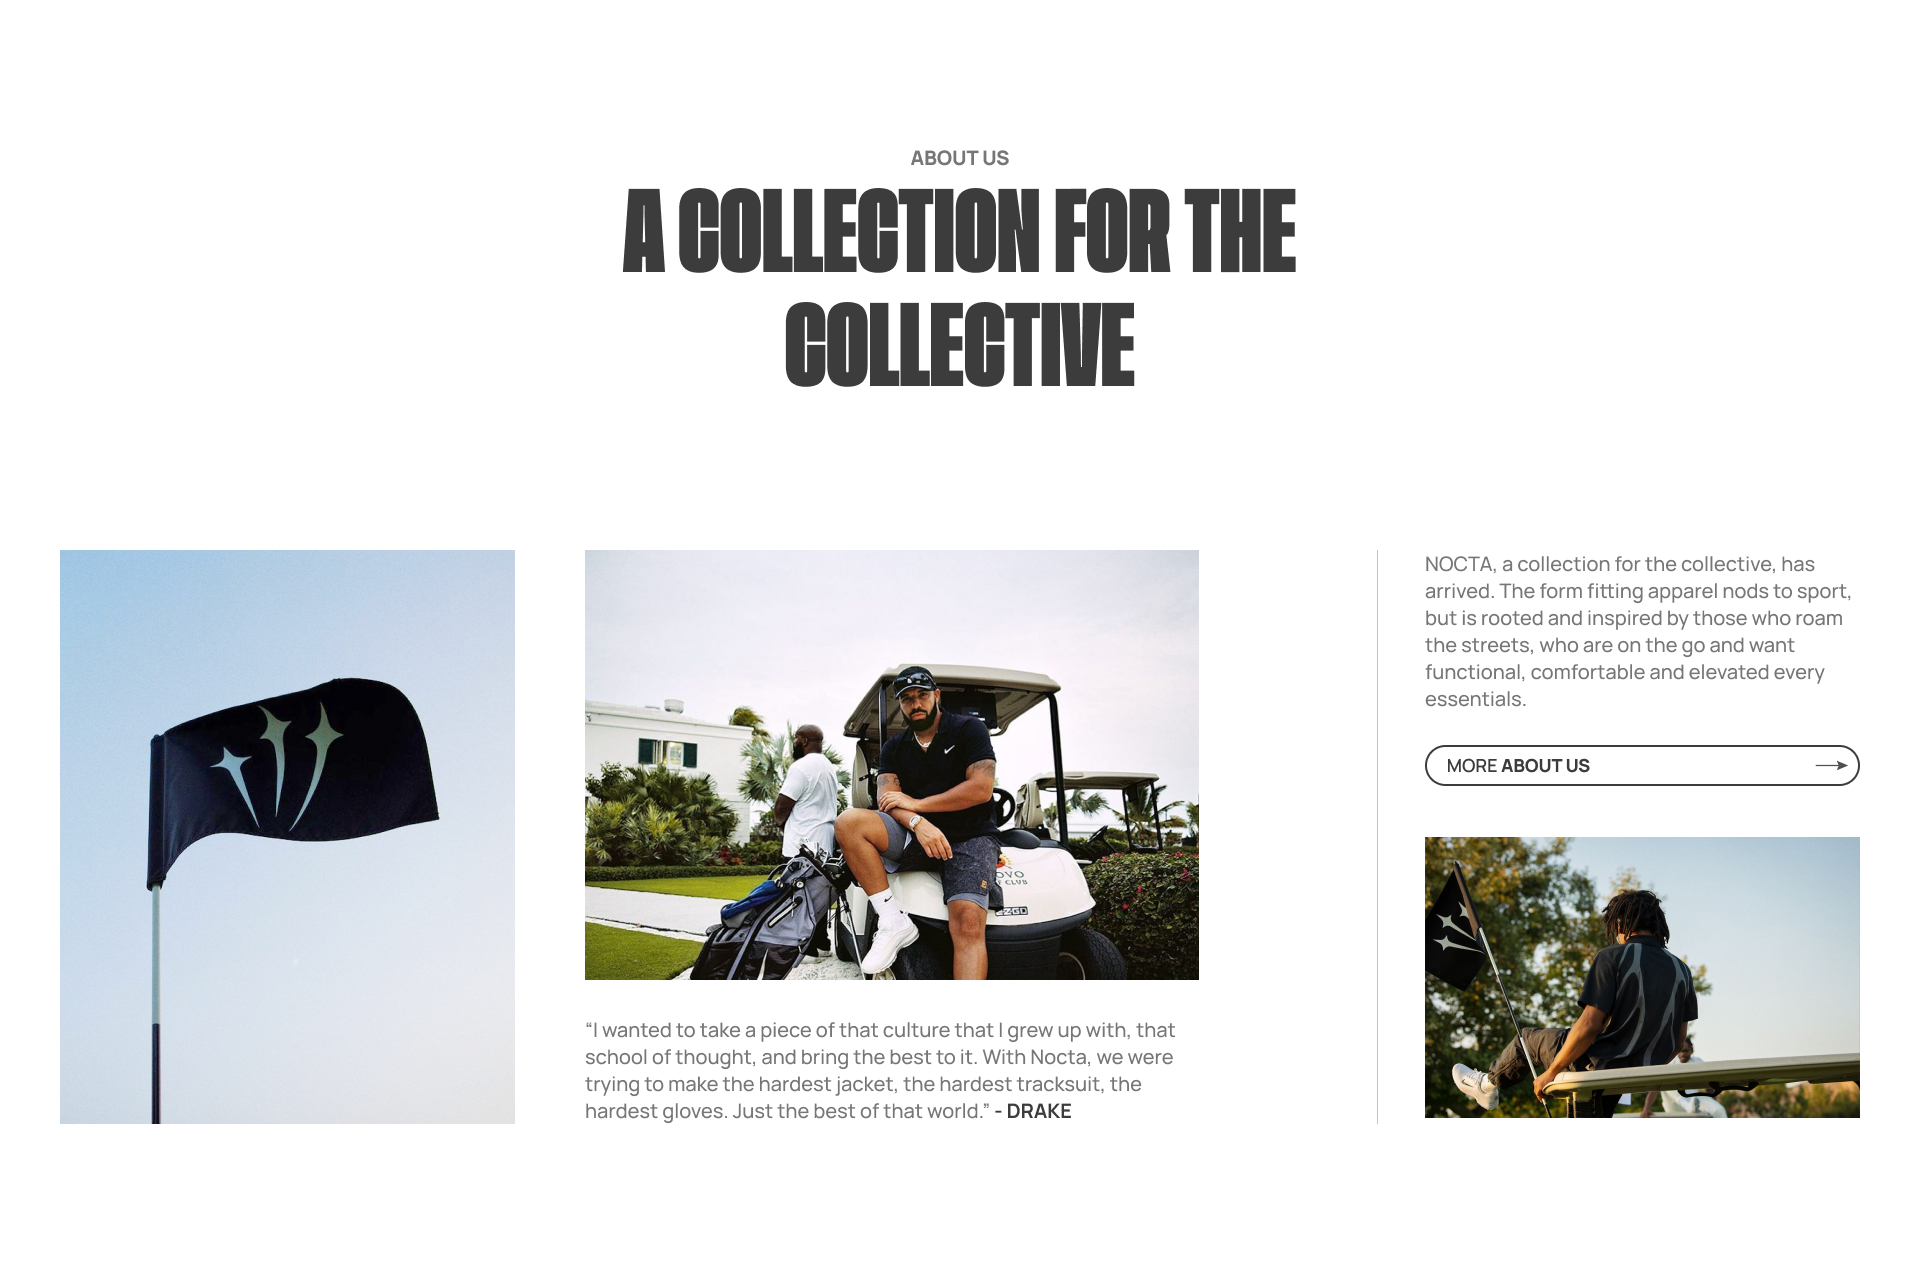
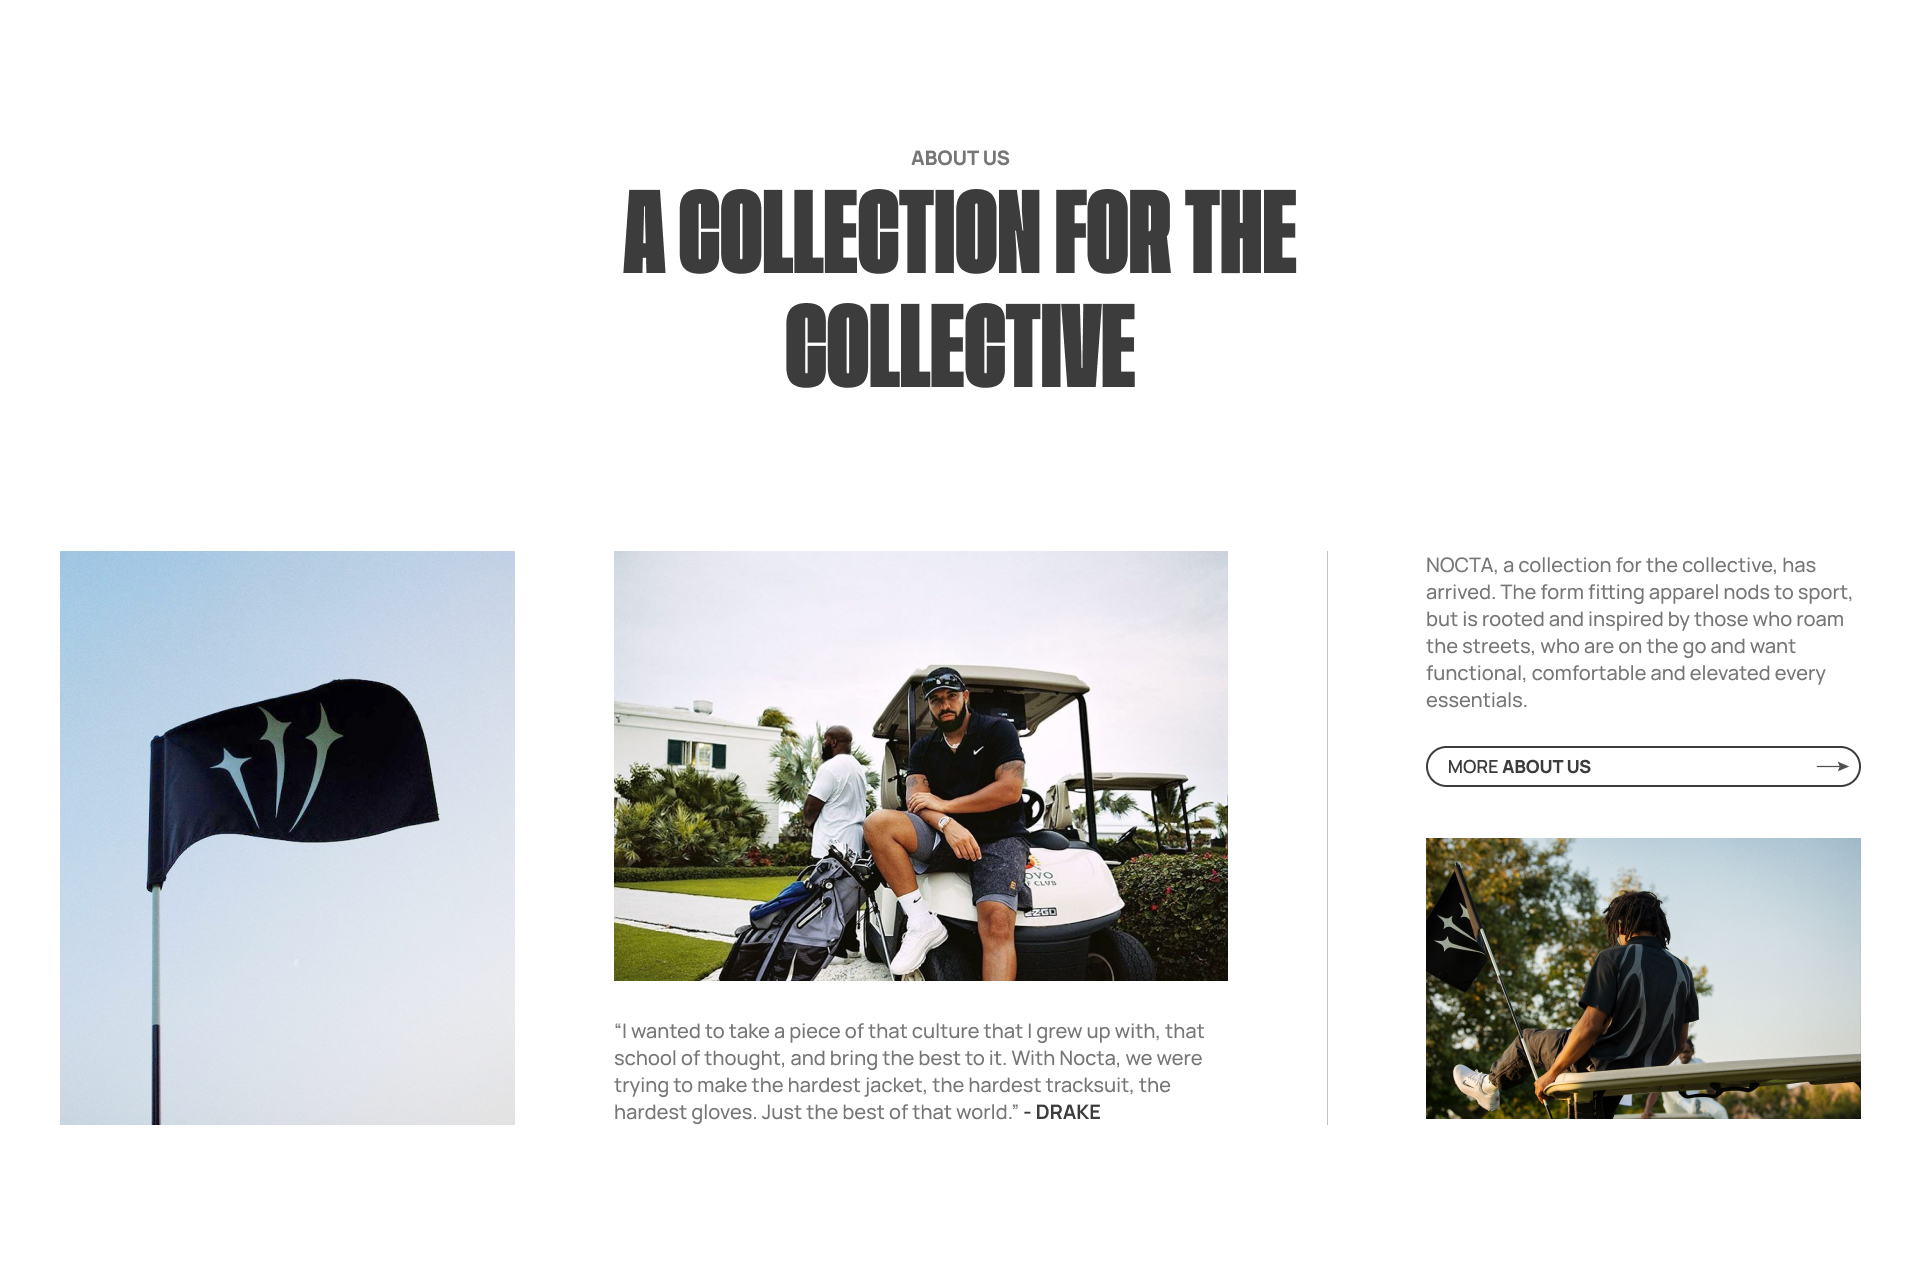
added responsive to about section

diff --git a/components/Landing/About.js b/components/Landing/About.js
@@ -29,65 +29,81 @@ function About() {
 
           <div className="div2">
             <Image
-              src={aboutImage2}
-              alt="About image 2"
+              src={aboutImage1}
+              alt="About image 1"
               width={500}
               height={500}
-              priority
+              className="div2__left"
             />
-            <p>
-              “I wanted to take a piece of that culture that I grew up with,
-              that school of thought, and bring the best to it. With Nocta, we
-              were trying to make the hardest jacket, the hardest tracksuit, the
-              hardest gloves. Just the best of that world.” <span>- DRAKE</span>
-            </p>
-          </div>
 
+            <div className="div2__right">
+              <Image
+                src={aboutImage2}
+                alt="About image 2"
+                width={500}
+                height={500}
+              />
+              <p className="div2__text paragraph">
+                “I wanted to take a piece of that culture that I grew up with,
+                that school of thought, and bring the best to it. With Nocta, we
+                were trying to make the hardest jacket, the hardest tracksuit,
+                the hardest gloves. Just the best of that world.” - DRAKE
+              </p>
+            </div>
+          </div>
+          <p className="div5 paragraph">
+            “I wanted to take a piece of that culture that I grew up with, that
+            school of thought, and bring the best to it. With Nocta, we were
+            trying to make the hardest jacket, the hardest tracksuit, the
+            hardest gloves. Just the best of that world.” - DRAKE
+          </p>
           <div className="div3">
+            <div className="div3__bar" />
+          </div>
+          <div className="div4">
             <div>
-              <p className="div3__description">
+              <p className="div4__description paragraph">
                 NOCTA, a collection for the collective, has arrived. The form
                 fitting apparel nods to sport, but is rooted and inspired by
                 those who roam the streets, who are on the go and want
                 functional, comfortable and elevated every essentials.
               </p>
-              <Link href="/" className="div3__content">
-                  <p>
-                    More <span>about us</span>
-                  </p>
-                  <svg
-                    width="34"
-                    height="11"
-                    viewBox="0 0 34 11"
-                    fill="none"
-                    xmlns="http://www.w3.org/2000/svg"
-                  >
-                    <g id="Group 88">
-                      <path
-                        id="Vector"
-                        d="M23.7757 5.49973L21.707 10.3696L33.2508 5.49973L21.707 0.630592L23.7757 5.49973Z"
-                        fill="#505050"
-                      />
-                      <path
-                        id="Vector_2"
-                        d="M0.75 5.5L28.7899 5.5"
-                        stroke="#505050"
-                        strokeWidth="1.20972"
-                        strokeMiterlimit="10"
-                      />
-                    </g>
-                  </svg>
+              <Link href="/" className="div4__content">
+                <p>
+                  More <span>about us</span>
+                </p>
+                <svg
+                  width="34"
+                  height="11"
+                  viewBox="0 0 34 11"
+                  fill="none"
+                  xmlns="http://www.w3.org/2000/svg"
+                >
+                  <g id="Group 88">
+                    <path
+                      id="Vector"
+                      d="M23.7757 5.49973L21.707 10.3696L33.2508 5.49973L21.707 0.630592L23.7757 5.49973Z"
+                      fill="#505050"
+                    />
+                    <path
+                      id="Vector_2"
+                      d="M0.75 5.5L28.7899 5.5"
+                      stroke="#505050"
+                      strokeWidth="1.20972"
+                      strokeMiterlimit="10"
+                    />
+                  </g>
+                </svg>
               </Link>
             </div>
             <Image
               src={aboutImage3}
               alt="About image 3"
-              width={500}
-              height={500}
+              width={700}
+              height={700}
               priority
             />
           </div>
-          <div className="div4" />
         </div>
       </div>
     </section>

diff --git a/sass/04-components/landing/_about.scss b/sass/04-components/landing/_about.scss
@@ -46,11 +46,16 @@
     }
   }
   &__content {
-    display: grid;
-    grid-template-columns: repeat(6, 1fr) 0.1fr repeat(3, 1fr);
-    grid-template-rows: repeat(5, 1fr);
-    column-gap: 3vw;
-    max-height: 700px;
+    display: flex;
+    flex-direction: column;
+    row-gap: 24px;
+    @media screen and (min-width: 992px) {
+      display: grid;
+      grid-template-columns: repeat(6, 1fr) 0.1fr repeat(3, 1fr);
+      grid-template-rows: repeat(5, 1fr);
+      column-gap: 3vw;
+      max-height: 700px;
+    }
     @media screen and (min-width: 1224px) {
       column-gap: 3.5vw;
     }
@@ -58,43 +63,100 @@
       width: 100%;
       object-fit: cover;
     }
+
     .div1 {
-      grid-area: 1 / 1 / 5 / 4;
-      height: 100%;
-      & img {
+      display: none;
+      @media screen and (min-width: 992px) {
+        display: block;
+        grid-area: 1 / 1 / 5 / 4;
         height: 100%;
+        & img {
+            height: 100%;
+        }
       }
     }
+
     .div2 {
-      grid-area: 1 / 4 / 5 / 7;
-      display: flex;
-      justify-content: space-between;
-      align-items: center;
-      flex-direction: column;
-      & p {
-        color: #767676;
-        font-size: min(1.3vw, 20px);
-        font-family: $manrope;
-        font-weight: 500;
-        line-height: 1.2;
+      height: 100%;
+      display: grid;
+      grid-template-columns: repeat(4, 1fr);
+      grid-template-rows: repeat(5, 1fr);
+      column-gap: 4vw;
+      @media screen and (min-width: 992px) {
+        grid-area: 1 / 4 / 5 / 7;
+        display: flex;
+        justify-content: space-between;
+        align-items: center;
+        flex-direction: column;
       }
-      & span {
-        color: #3c3c3c;
-        font-weight: 800;
+      &__left {
+        grid-area: 1 / 1 / 6 / 3;
+        @media screen and (min-width: 992px) {
+          display: none;
+        }
+      }
+      &__right {
+        grid-area: 1 / 3 / 6 / 5;
+        display: flex;
+        justify-content: space-between;
+        align-items: center;
+        flex-direction: column;
+        height: 100%;
+        & img {
+          height: 100%;
+          @media screen and (min-width: 768px) {
+            height: 30vw;
+          }
+          @media screen and (min-width: 992px) {
+            height: auto;
+          }
+        }
+      }
+      &__text {
+        display: none;
+        @media screen and (min-width: 768px) {
+          display: block;
+        }
       }
     }
     .div3 {
-      grid-area: 1 / 8 / 5 / 11;
+      grid-area: 7 / 1 / 7 / 3;
+      display: flex;
+      justify-content: center;
+      align-items: center;
+      height: 100%;
+      @media screen and (min-width: 992px) {
+        grid-area: 1 / 7 / 5 / 8;
+      }
+      &__bar {
+        width: 100%;
+        height: 1px;
+        background: #3c3c3c3b;
+        @media screen and (min-width: 992px) {
+          width: 1px;
+          height: 100%;
+        }
+      }
+    }
+    .div4 {
       display: flex;
       justify-content: space-between;
       align-items: center;
-      flex-direction: column;
+      flex-direction: column-reverse;
+      grid-area: 8 / 1 / 11 / 3;
+      row-gap: 24px;
+      @media screen and (min-width: 992px) {
+        grid-area: 1 / 8 / 5 / 11;
+        flex-direction: column;
+      }
       &__description {
-        color: #767676;
-        font-size: min(1.3vw, 20px);
-        font-family: $manrope;
-        padding-bottom: 1.5vw;
-        line-height: 1.2;
+        padding-bottom: 24px;
+      }
+      & img {
+        height: 35vw;
+        @media screen and (min-width: 992px) {
+          height: auto;
+        }
       }
       &__content {
         border-radius: 44px;
@@ -109,18 +171,31 @@
           font-size: clamp(14px, 2rem, 18px);
           font-family: $manrope;
           text-transform: uppercase;
-          font-size: min(1.3vw, 18px);
+          @media screen and (min-width: 992px) {
+            font-size: min(1.3vw, 20px);
+          }
           & span {
             font-weight: 800;
           }
         }
       }
     }
-    .div4 {
-      grid-area: 1 / 7 / 5 / 8;
-      width: 1px;
-      height: 100%;
-      background: #3c3c3c3b;
+
+    .div5 {
+      @media screen and (min-width: 768px) {
+        display: none;
+      }
     }
+  }
+}
+
+.paragraph {
+  color: #767676;
+  font-size: clamp(16px, 2.2rem, 20px);
+  font-family: $manrope;
+  font-weight: 500;
+  line-height: 1.3;
+  @media screen and (min-width: 992px) {
+    font-size: min(1.3vw, 20px);
   }
 }

diff --git a/pages/_app.js b/pages/_app.js
@@ -1,10 +1,17 @@
-import React from "react";
+import React, { useEffect } from "react";
 import "../sass/styles.scss";
 import Layout from "@/components/Layout";
 import { useRouter } from "next/router";
 
 function MyApp({ Component, pageProps }) {
   const router = useRouter();
+  useEffect(() => {
+    window.console.log.apply(console, [
+      "\n %c Made with ❤ by Vittorio Busatta %c https://vittoriobusatta.fr/",
+      "border: 1px solid #DBD8D8;color: #3C3C3C; background: #DBD8D8; padding:5px 0;",
+      "color: #fff; background: #3C3C3C; padding:5px 0;border: 1px solid #3C3C3C;",
+    ]);
+  }, []);
   return (
     <>
       <Layout>
